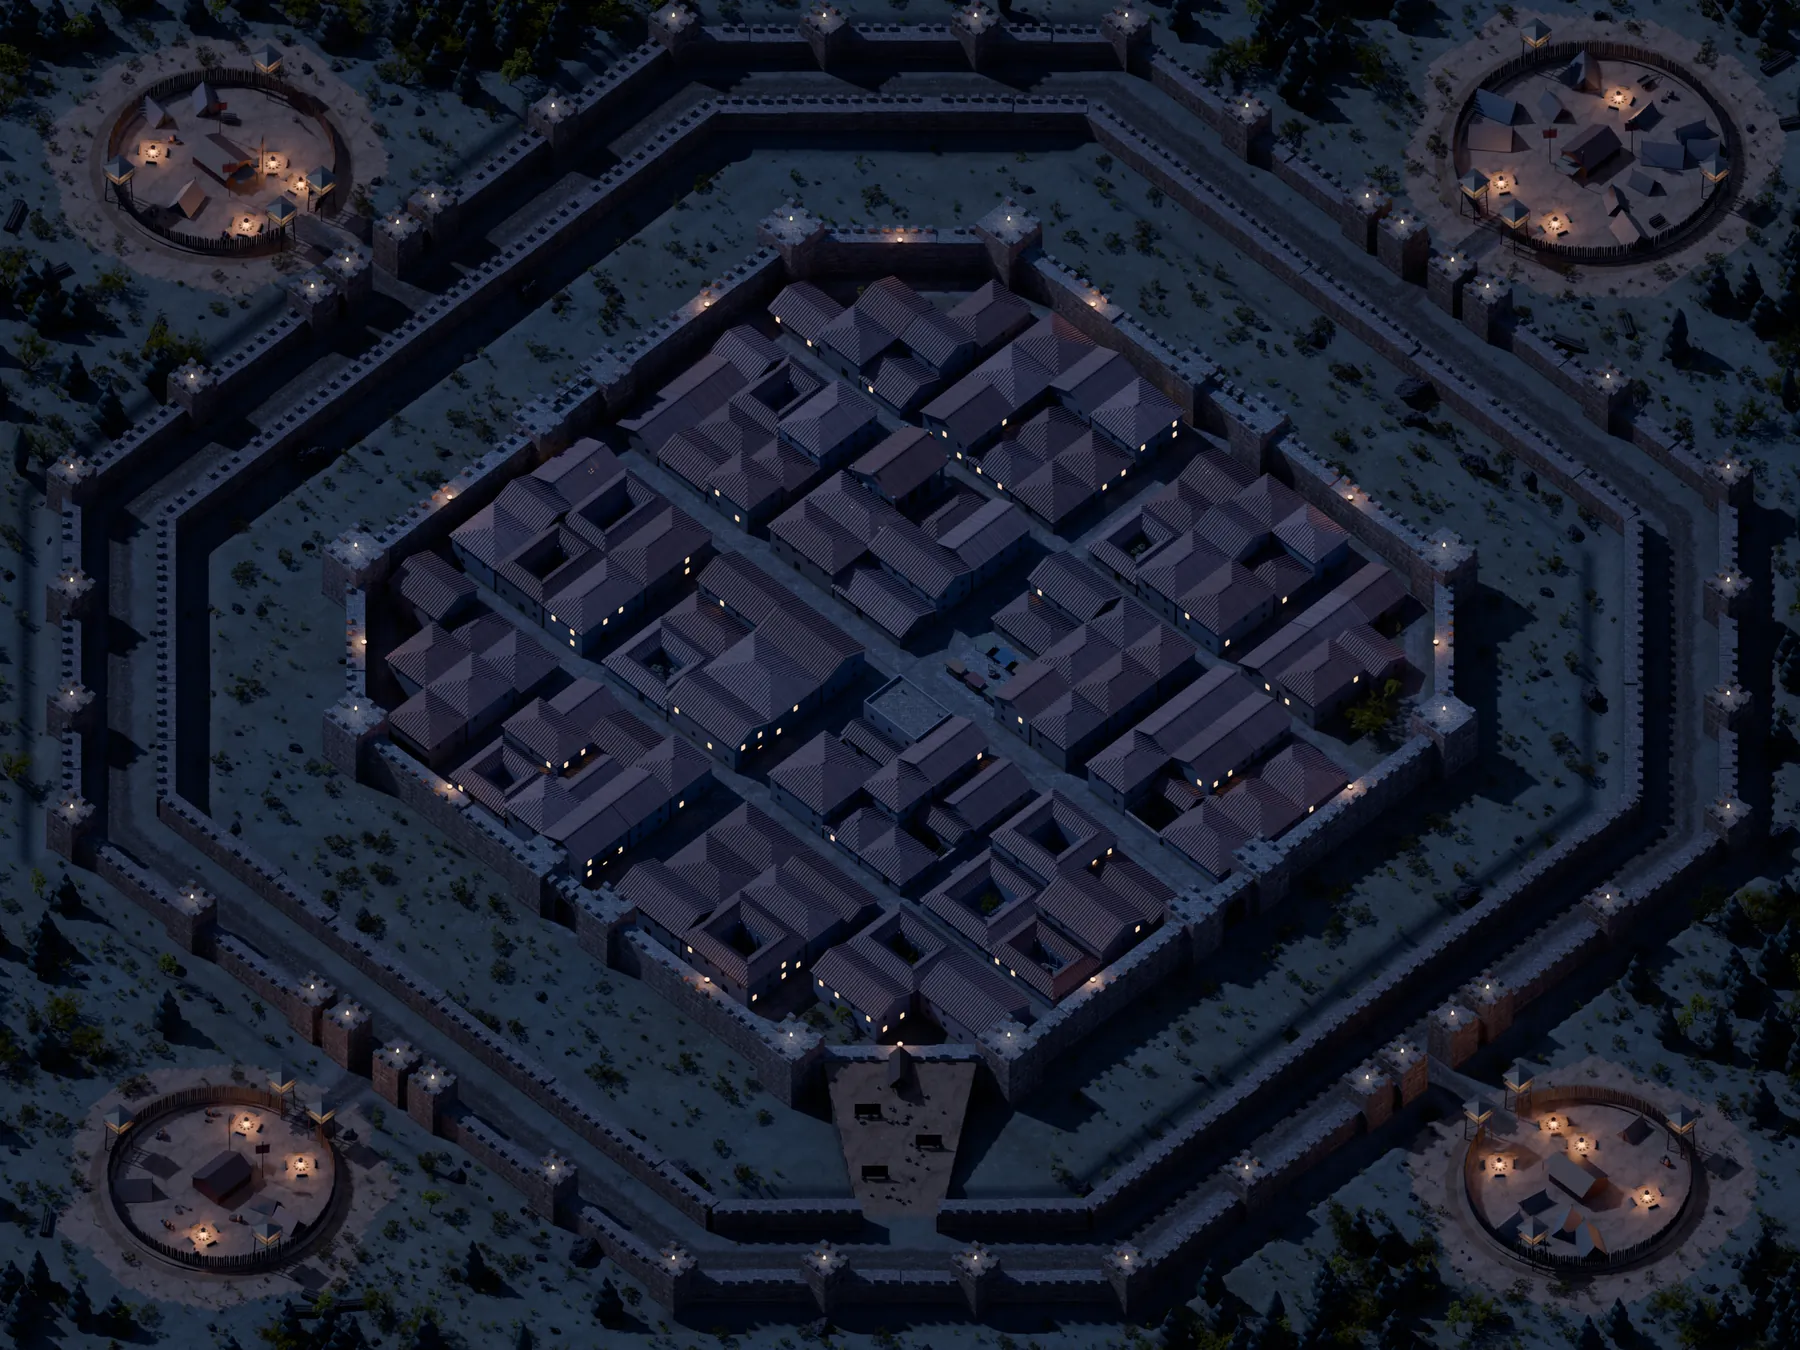
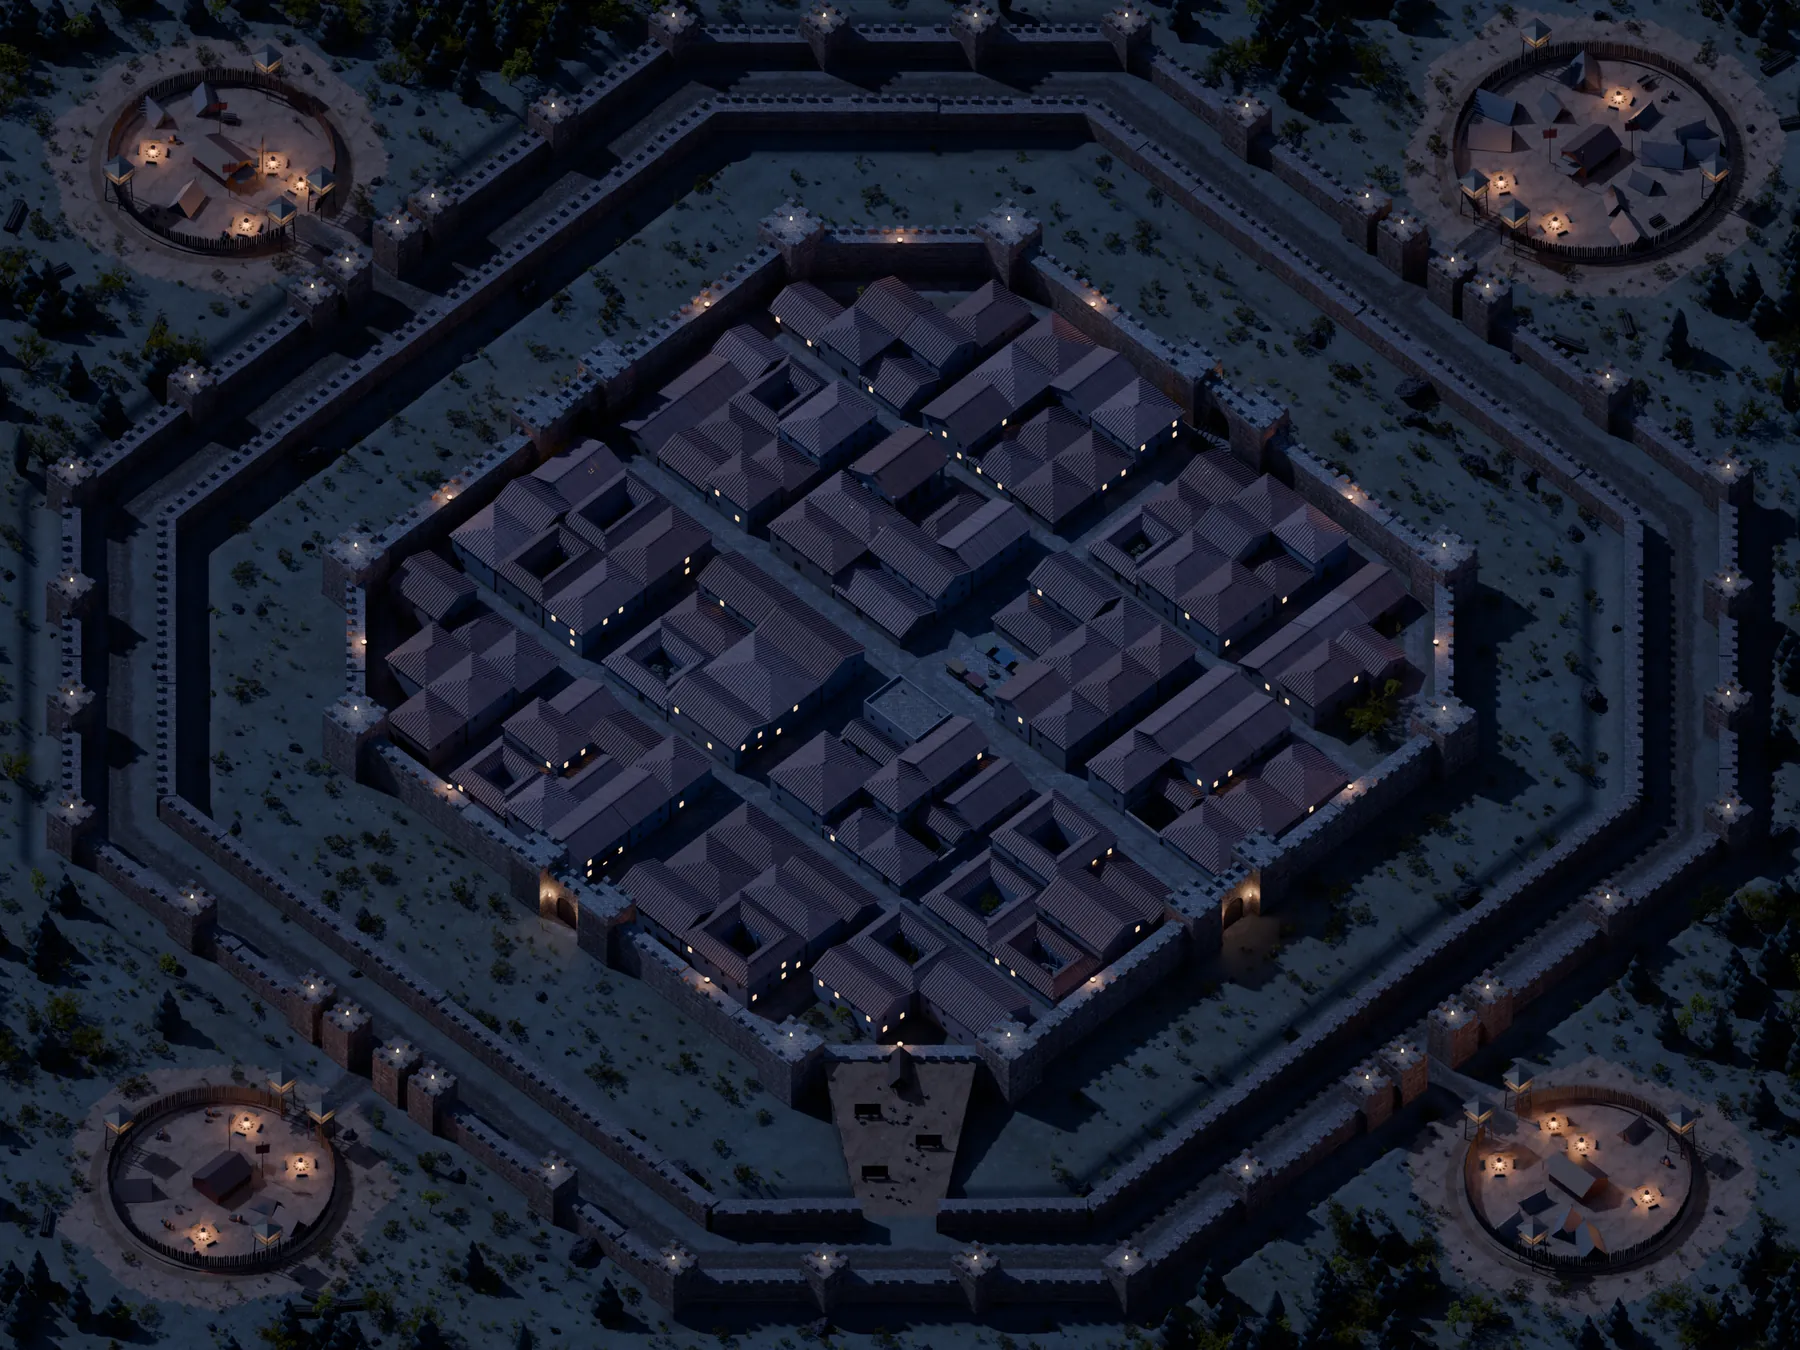
Give the besieged town barred gatehouses
Each of its four gates is now an arched passage cut through the wall,
with a tower either side. The studded, iron-banded doors are shut and
barred, the town side is shored with timber and heaped stones, and
torches in brackets either side of the arch light the doors.

Claude-Session: https://claude.ai/code/session_017rJoWQA8egkWdB9BLoXRME

diff --git a/world/build_world3d.py b/world/build_world3d.py
@@ -1055,9 +1055,10 @@ def wall_line(poly, h=7.5, thick=3.2, towers=3, closed=False, wallc="#d3c6a8", t
             if towers and k % towers == 0 and not (skip_first and k == 1) and all(math.hypot(b[0] - hx, b[1] - hy) > half + 4 for hx, hy, half in HOLES):
                 masonry(rect(b[0], b[1], 7.5, 7.5, ang), tower_h, wallc, [(b[0] + dx, b[1] + dy, ang) for dx in (-3, 0, 3) for dy in (-3, 0, 3) if dx or dy], abs_top=None if abs_top is None else abs_top + 3.5)
 
+LAMPS = []                                                                               # extra lights: (x, y, z, watts, kind)
 # ================================================================ the walls of the city (or the enemy town), from the drawing's courses
 # The drawing's courses run straight through its gates (only towers and a lintel mark them); here each opening is cut out.
-HOLES = [] if SIEGE else [(gx, gy, 4.6) for gx, gy in S["gates"]] + ([(*S["postern"], 3.0)] if S.get("postern") else []) + [(0, 101.5, 8.2), (-46, 114.5, 2.6)]
+HOLES = [(gx, gy, 4.6) for gx, gy in S["gates"]] if SIEGE else [(gx, gy, 4.6) for gx, gy in S["gates"]] + ([(*S["postern"], 3.0)] if S.get("postern") else []) + [(0, 101.5, 8.2), (-46, 114.5, 2.6)]
 def cut_wall(pts):
     """A stretch of wall as rectangles, with any opening that lies on it left out."""
     p = ((pts[0][0] + pts[3][0]) / 2, (pts[0][1] + pts[3][1]) / 2); q = ((pts[1][0] + pts[2][0]) / 2, (pts[1][1] + pts[2][1]) / 2)
@@ -1109,13 +1110,22 @@ def arch_gate(cx, cy, ux, uy, span, ow, spring, height, thick, shut=False, insid
         for k in range(n):
             a = -span / 2 + (k + .5) * span / n; x, y, _ = P(a, side * (thick / 2 - .45), 0)
             boxr(sk, ck, x, y, 1.2 if abs(ux) > .5 else .9, .9 if abs(ux) > .5 else 1.2, ztop, ztop + .95)
-    dk = "wood:#5a3c24"
-    if shut:                                                                           # the leaves closed, studded planks filling the arch, on both faces
+    dk = "wood:#7a5634"
+    if shut:                                                                           # the leaves closed and barred: studded, iron-banded planks filling the arch
         for side in (-1, 1):
-            b = side * .2
+            b = side * (thick / 2 - .3)
             oriented(dk, [P(-r, b, zg), P(r, b, zg), P(r, b, zs), P(-r, b, zs)], (vx * side, vy * side, 0))
             for (a0, z0), (a1, z1) in zip(arch, arch[1:]): oriented(dk, [P(a0, b, zs), P(a1, b, zs), P(a1, b, z1), P(a0, b, z0)], (vx * side, vy * side, 0))
-            oriented("flat:#2a1d12", [P(-.05, b + side * .02, zg), P(.05, b + side * .02, zg), P(.05, b + side * .02, zs + r), P(-.05, b + side * .02, zs + r)], (vx * side, vy * side, 0))
+            bf = b + side * .03
+            oriented("flat:#1c140c", [P(-.06, bf, zg), P(.06, bf, zg), P(.06, bf, zs + r), P(-.06, bf, zs + r)], (vx * side, vy * side, 0))
+            for zb_ in (.7, 1.9, 3.1, zs - zg + r * .55):                              # iron bands, studs along them
+                oriented("flat:#2e2b28", [P(-r + .1, bf, zg + zb_), P(r - .1, bf, zg + zb_), P(r - .1, bf, zg + zb_ + .16), P(-r + .1, bf, zg + zb_ + .16)], (vx * side, vy * side, 0))
+                for k in range(9):
+                    a_ = -r + .35 + k * (2 * r - .7) / 8; boxr("flat:#3a3632", "flat:#3a3632", *P(a_, bf + side * .04, 0)[:2], .09, .09, zg + zb_ + .03, zg + zb_ + .13)
+        for zb_ in (1.3, 2.9):                                                         # the bars: heavy beams across the leaves, in iron brackets
+            for side in (-1, 1):
+                b = side * (thick / 2 - .3) - side * .25
+                beam("wood:#3e2a18", P(-r - .4, b, zg + zb_), P(r + .4, b, zg + zb_), r=.16, n=6)
     else:                                                                              # open: each leaf against its jamb, on the town side
         for a in (-r + .1, r - .1):
             b0, b1 = inside * .2, inside * min(thick / 2, r - .1) + inside * .2
@@ -1124,9 +1134,22 @@ def arch_gate(cx, cy, ux, uy, span, ow, spring, height, thick, shut=False, insid
 for gx, gy in S["gates"]:                                                              # the town's gates, between the drawing's gate towers
     ux, uy = (0, 1) if gy == 0 else (1, 0); ins = -1 if (gx > 0 or gy > 0) else 1
     if not SIEGE: arch_gate(gx, gy, ux, uy, 9.2, 5.6, 4.6, 9.0, 3.4, inside=ins if gy == 0 else (1 if gy < 0 else -1))
-    else:                                                                              # shut: the wall runs on across; the closed gate is set in its outer face
-        nx_, ny_ = (1 if gx > 0 else -1 if gx < 0 else 0), (1 if gy > 0 else -1 if gy < 0 else 0)
-        arch_gate(gx + nx_ * 1.75, gy + ny_ * 1.75, ux, uy, 9.2, 5.0, 4.0, 8.4, .3, shut=True)
+    else:                                                                              # shut and barred, a tower either side, the town side shored up
+        arch_gate(gx, gy, ux, uy, 9.4, 4.8, 4.0, 9.4, 3.4, shut=True, wallc="#d3c6a8")
+        for s_ in (-1, 1):
+            tx, ty = gx + ux * s_ * 8, gy + uy * s_ * 8
+            masonry(rect(tx, ty, 7, 7), 11.5, "#d3c6a8", [(tx + a, ty + b, 0) for a in (-2.8, 0, 2.8) for b in (-2.8, 0, 2.8) if a or b])
+        inx, iny = (-1 if gx > 0 else 1 if gx < 0 else 0), (-1 if gy > 0 else 1 if gy < 0 else 0)  # into the town
+        for s_ in (-1, 1):                                                             # torches in brackets either side of the arch, watching the approach
+            tx, ty = gx - inx * 2.1 + ux * s_ * 3.6, gy - iny * 2.1 + uy * s_ * 3.6
+            beam("flat:#2a2622", (tx + inx * .4, ty + iny * .4, 4.6), (tx, ty, 5.0), r=.05, n=4); cyl("emit:#ffcf6e", tx, ty, .16, 5.0, 5.55, n=6, r1=.03)
+            LAMPS.append((tx - inx * .4, ty - iny * .4, 5.3, 700, "torch"))
+        mx_, my_ = gx + inx * 4.2, gy + iny * 4.2
+        for k in range(5):                                                             # timber shores against the leaves, stones heaped at their feet
+            a_ = (k - 2) * 1.0; px_, py_ = mx_ + ux * a_, my_ + uy * a_
+            beam("wood:#4f3a26", (px_ + inx * 3.2, py_ + iny * 3.2, 0), (px_ - inx * .6, py_ - iny * .6, 3.2), r=.15)
+        g_ = random.Random(int(gx * 3 + gy))
+        for _ in range(16): place("boulder_01", mx_ + ux * g_.uniform(-2.6, 2.6) + inx * g_.uniform(0, 3), my_ + uy * g_.uniform(-2.6, 2.6) + iny * g_.uniform(0, 3), -.2, h=g_.uniform(.5, 1.1), g=g_)
 if not SIEGE:
     # The town's walls climb the hill's flanks from the octagon's north corners to the citadel; the west one carries the postern.
     PX, PY = S["postern"]
@@ -1218,7 +1241,6 @@ if not SIEGE:
         prism("stone:#d6caae", "marble:#e9e2d2", box_pts(x2, 112.4, x, 115.6), min(zt(x2, 112.4), zt(x2, 115.6), zm) - .6, zm + .08); x = x2
     take_poly(box_pts(min(xs_) - 3, 112, max(xs_), 116), 0)
 
-LAMPS = []                                                                               # extra lights: (x, y, z, watts, kind)
 # ================================================================ the town: each block divided into lots of different sizes, each lot built on
 def split(r, g, mn=8.5, mx=15):
     x0, y0, x1, y1 = r; w, d = x1 - x0, y1 - y0
